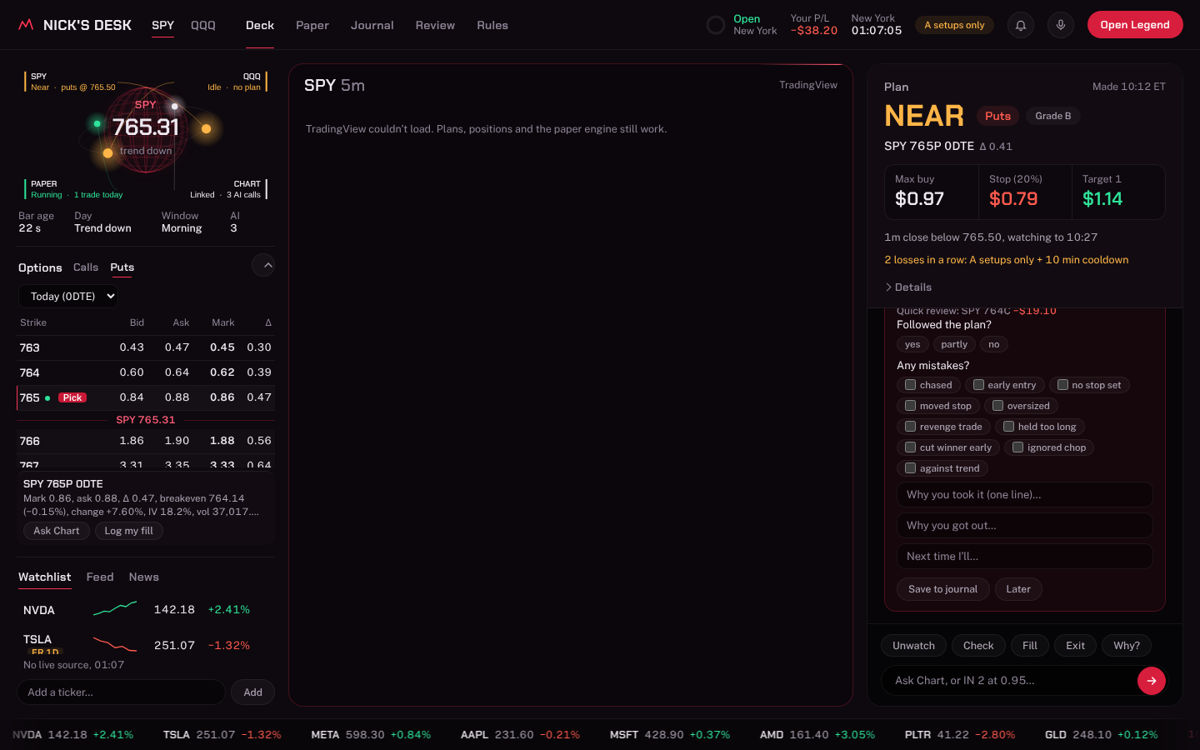
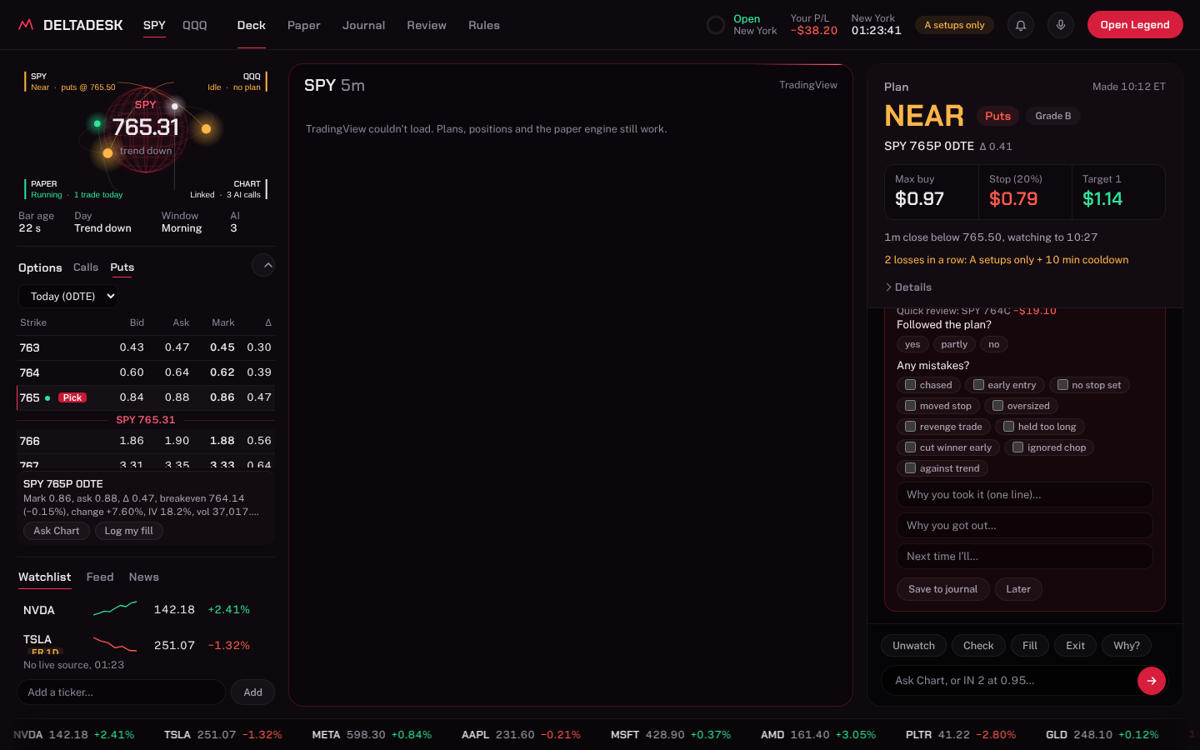
Rename to DeltaDesk and add a disclaimer
DeltaDesk wordmark and title; requirements.txt; README badges, refreshed screenshots and a
not-financial-advice note.

Claude-Session: https://claude.ai/code/session_014MAGVxgaTcBwgNtCZpwoYS

diff --git a/index.html b/index.html
@@ -4,7 +4,7 @@
 <meta charset="utf-8">
 <meta name="viewport" content="width=device-width, initial-scale=1">
 <meta name="theme-color" content="#0D090E">
-<title>Nick's Desk</title>
+<title>DeltaDesk</title>
 <link rel="preconnect" href="https://fonts.googleapis.com">
 <link rel="preconnect" href="https://fonts.gstatic.com" crossorigin>
 <link href="https://fonts.googleapis.com/css2?family=Chakra+Petch:wght@500;600;700&family=Public+Sans:wght@400;500;600;700&display=swap" rel="stylesheet">
@@ -435,7 +435,7 @@ td.n,th.n{text-align:right;white-space:nowrap}
   <header>
     <div class="brand" translate="no">
       <svg viewBox="0 0 32 32" fill="none" stroke="currentColor" stroke-width="2.4" stroke-linejoin="round" aria-hidden="true"><path d="M4 24l6-14 6 9 6-13 6 18"/></svg>
-      <b>NICK'S DESK</b>
+      <b>DELTADESK</b>
     </div>
     <div class="seg" role="group" aria-label="Ticker">
       <button type="button" data-t="SPY" aria-pressed="true">SPY</button><button type="button" data-t="QQQ" aria-pressed="false">QQQ</button><button type="button" class="other" id="otherPill" hidden aria-pressed="true"></button>

diff --git a/README.md b/README.md
@@ -1,6 +1,8 @@
-# Nick's Desk
+# DeltaDesk
 
-A personal trading command deck for 0DTE SPY/QQQ options. Deterministic code does the math, the monitoring and the paper trading. An AI coach ("Chart", a Grok agent) explains the numbers in plain words. Real-money trades are placed by hand. The system never places them.
+![Python](https://img.shields.io/badge/python-3.12-blue) ![SQLite](https://img.shields.io/badge/storage-SQLite-lightgrey) ![Paper only](https://img.shields.io/badge/broker-paper%20only-red)
+
+**A day-trading command deck for 0DTE SPY/QQQ options.** Deterministic code does the math, the monitoring and the paper trading. An AI coach ("Chart", a Grok agent) explains the numbers in plain words. Real-money trades are placed by hand. The system never places them.
 
 ![The deck](docs/screenshots/deck.png)
 *The deck with demo data: plan, options chain, watchlist, positions and coach chat. In the live app the TradingView chart fills the middle.*
@@ -40,9 +42,12 @@ Chart (Grok agent) <- webhook with compact context (rules, plan, 3 relevant know
 - **Tested.** 31 offline tests (no network, no AI, fake broker) cover stops, sizing, the streak brake, the paper engine, alerts, the journal, the chain and safety refusals.
 
 ## Stack
-Python 3, SQLite, pandas/numpy, yfinance; vanilla HTML/CSS/JS with canvas animations and the TradingView widget; Alpaca and Schwab REST APIs; Grok agent routines; pytest.
+Python 3.12, SQLite, pandas/numpy, yfinance; vanilla HTML/CSS/JS with canvas animations and the TradingView widget; Alpaca and Schwab REST APIs; Grok agent routines; pytest.
 
 ## Running it
-`python3 server.py` with `DESK_TOKEN`, `ALPACA_KEY`/`ALPACA_SECRET` (paper), and optionally `CHAT_WEBHOOK`, `SCHWAB_*`, `NTFY_TOPIC`, `KRONOS=1` set in the environment. Never commit keys. Tests: `python3 -m pytest -q tests/`.
+`python3 server.py` with `DESK_TOKEN`, `ALPACA_KEY`/`ALPACA_SECRET` (paper), and optionally `CHAT_WEBHOOK`, `SCHWAB_*`, `NTFY_TOPIC`, `KRONOS=1` set in the environment. Never commit keys. Tests: `pip install -r requirements.txt && python3 -m pytest -q tests/`.
 
-Built with help from Claude (Anthropic). Credits for ideas and tools are in `docs/CREDITS.md`.
+## Disclaimer
+This is a personal project, shared for portfolio purposes. It is not financial advice and not a trading service. It never places real-money orders: the broker client only works with paper accounts, and every real trade is placed by hand. Options trading carries a high risk of loss.
+
+Built with help from Claude (Anthropic). Credits for ideas and tools are in `docs/CREDITS.md`. Copyright © 2026 nick-devvv. All rights reserved.
